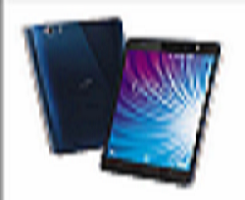
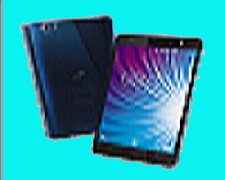
图片背景和首页布局

diff --git a/src/pages/Home/HomeItem/index.vue b/src/pages/Home/HomeItem/index.vue
@@ -65,13 +65,22 @@
         </ul>
       </div>
       <div class="recommend">
-        <div class="image" v-for="(item, index) in imList" :key="index">
+        <div class="image1" v-for="(item, index) in imList1" :key="index">
           <img :src="require('@/assets/' + item)" />
         </div>
-        <div class="intro" v-for="i in inList" :key="i">
+        <div class="intro1" v-for="i in inList1" :key="i">
           <label>{{ i }}</label>
         </div>
-        <div class="price" v-for="p in prList" :key="p">
+        <div class="price1" v-for="p in prList1" :key="p">
+          <label>{{ p }}</label>
+        </div>
+        <div class="image2" v-for="(item, index) in imList2" :key="index">
+          <img :src="require('@/assets/' + item)" />
+        </div>
+        <div class="intro2" v-for="i in inList2" :key="i">
+          <label>{{ i }}</label>
+        </div>
+        <div class="price2" v-for="p in prList2" :key="p">
           <label>{{ p }}</label>
         </div>
       </div>
@@ -86,14 +95,22 @@ export default {
 
   data: () => ({
     viewList: ["images/1.png", "images/2.png", "images/3.png"],
-    imList: ["images/4.png", "images/5.png", "images/6.png", "images/7.png"],
-    inList: [
+    imList1: ["images/4.png", "images/5.png", "images/6.png", "images/7.png"],
+    inList1: [
       "LAVA智能手机",
       "松下G95/G90相机",
       "杰克丹尼威士忌",
       "ROG玩家国度笔记本电脑",
     ],
-    prList: ["¥ 2999", "¥ 5999", "¥ 599", "¥ 12999"],
+    prList1: ["¥ 2999", "¥ 5999", "¥ 599", "¥ 12999"],
+    imList2: ["images/4.png", "images/5.png", "images/6.png", "images/7.png"],
+    inList2: [
+      "LAVA智能手机",
+      "松下G95/G90相机",
+      "杰克丹尼威士忌",
+      "ROG玩家国度笔记本电脑",
+    ],
+    prList2: ["¥ 2999", "¥ 5999", "¥ 599", "¥ 12999"],
     timer: 0,
     interrupt: null,
   }),

diff --git a/src/assets/css/home.css b/src/assets/css/home.css
@@ -235,7 +235,8 @@ body {
 .outer {
     background: #fff;
     width: 1200px;
-    height: 800px;
+    min-height: 800px;
+    height: auto;
     margin: 0 auto;
     border-radius: 18px 18px 0 0;
     position: relative;
@@ -359,26 +360,42 @@ body {
 .home-container .recommend {
     display: grid;
     grid-template-columns: 1fr 1fr 1fr 1fr;
-    grid-template-rows: 200px 20px 20px;
+    grid-template-rows: 200px 20px 20px 200px 20px 20px;
     position: absolute;
     width: 980px;
-    height: 200px;
+    height: 480px;
     left: 220px;
     top: 320px;
 }
 
-.home-container .recommend .image {
+.home-container .recommend .image1 {
     cursor: pointer;
+    margin-right: 10px;
+    margin-left: 10px;
 }
 
-.home-container .recommend .intro {
+.home-container .recommend .intro1 {
     text-align: center;
-    grid-row: 2;
 }
 
-.home-container .recommend .price {
+.home-container .recommend .price1 {
     text-align: center;
-    grid-row: 3;
+    color: crimson;
+}
+
+.home-container .recommend .image2 {
+    cursor: pointer;
+    margin-right: 10px;
+    margin-top: 5px;
+    margin-left: 10px;
+}
+
+.home-container .recommend .intro2 {
+    text-align: center;
+}
+
+.home-container .recommend .price2 {
+    text-align: center;
     color: crimson;
 }
 
